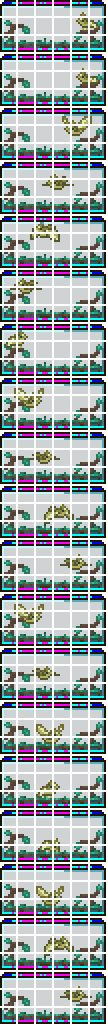
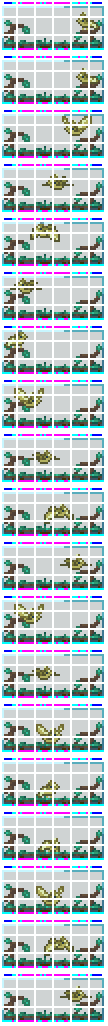
feat(ns/plat-critters): handle cage outline color

diff --git a/src/nightshade/PlatinumCritterGen/Program.cs b/src/nightshade/PlatinumCritterGen/Program.cs
@@ -21,6 +21,7 @@ internal static class Program
 
     private static readonly Dictionary<Rgba32, Rgba32> critter_color_map = new()
     {
+        // basic mapping of gold bar/critter colors
         [new Rgba32(83, 62, 11)] = new Rgba32(255, 0, 0),
         [new Rgba32(102, 77, 14)] = new Rgba32(0, 255, 0),
         [new Rgba32(121, 92, 18)] = new Rgba32(0, 0, 255),
@@ -31,12 +32,16 @@ internal static class Program
 
     private static readonly Dictionary<Rgba32, Rgba32> cage_color_map = new()
     {
+        // basic mapping of gold bar/critter colors
         [new Rgba32(83, 62, 11)] = new Rgba32(255, 0, 0),
         [new Rgba32(102, 77, 14)] = new Rgba32(0, 255, 0),
         [new Rgba32(121, 92, 18)] = new Rgba32(0, 0, 255),
         [new Rgba32(147, 125, 30)] = new Rgba32(255, 255, 0),
         [new Rgba32(203, 179, 73)] = new Rgba32(0, 255, 255),
         [new Rgba32(255, 249, 181)] = new Rgba32(255, 0, 255),
+        
+        // additional shade present as cage outline
+        [new Rgba32(29, 20, 0)] = new Rgba32(255, 255, 255),
     };
 
     public static void Main()
